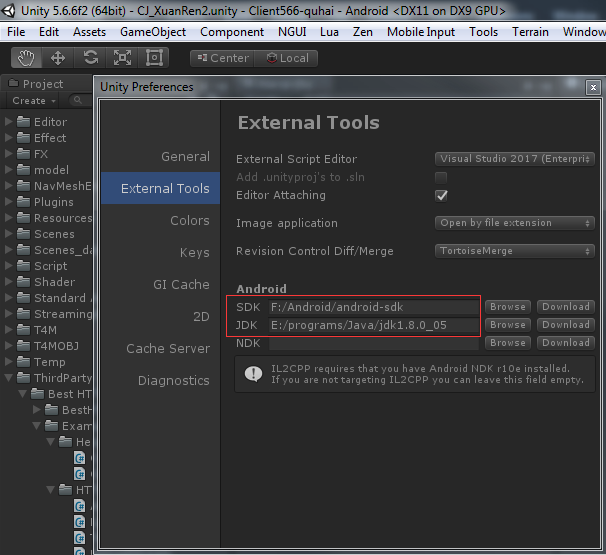
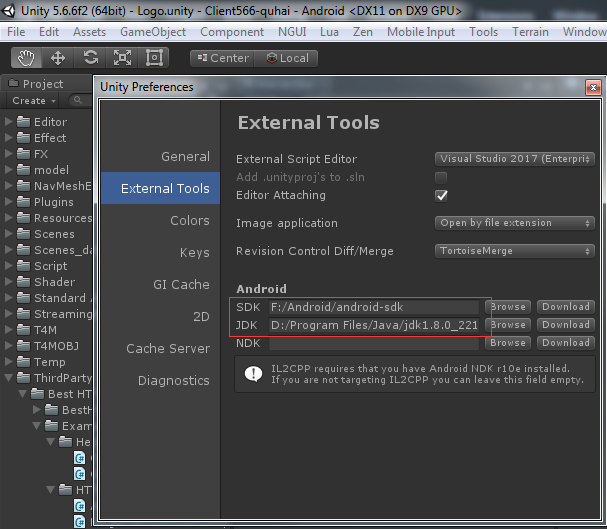
jdk8

Changed region(s): [[0.0, 0.0, 1.0, 1.0]]

diff --git a/sdk.html b/sdk.html
@@ -19,12 +19,15 @@
         <li>
             首先需要配置android sdk以及java jdk，Unity菜单->Edit->Preferences
             <p><img src="assets/image/unity-android.png" /></p>
-            
+
         </li>
         <li>
             然后在Unity菜单->File->Build Settings
             <p><img src="assets/image/unity-build-android.png" /></p>
-            
+        </li>
+        <li>
+            如果遇到以下报错，原因是jdk版本和unity版本不匹配，需要选择安装\ubuntu\share\software\JDK\jdk-8u221-windows-x64.exe，并修改第一步的指向路径
+            <p><img src="assets/image/unity-build-jdk.png" /></p>
         </li>
     </ul>    
 

diff --git a/software.html b/software.html
@@ -108,6 +108,10 @@
         * 你的安卓手机需要打开开发者模式，不同的品牌打开方式不同，自行搜索。
     </p>
 
+    <h2>JDK</h2>
+    <p>文件在公司的共享目录    \ubuntu\share\software\JDK</p>
+    <p>Unity打包apk时用到</p>
+
     <hr />
     <footer align="right">
         <address>
